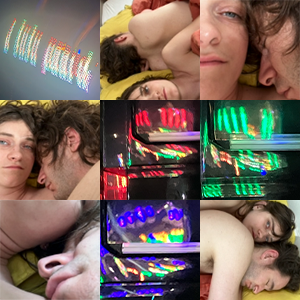
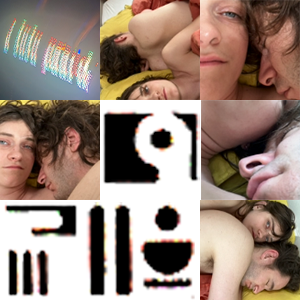
kleuren

diff --git a/main.css b/main.css
@@ -1,5 +1,5 @@
 body {
-  background: black;
+  background: rgb(73, 1, 71);
   background-image: url("src/bg_test_1.png");
 }
 
